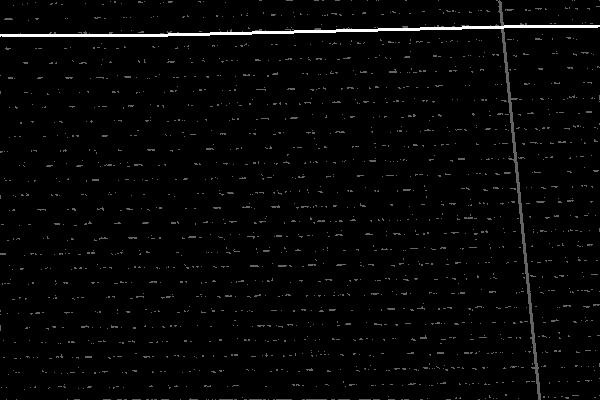
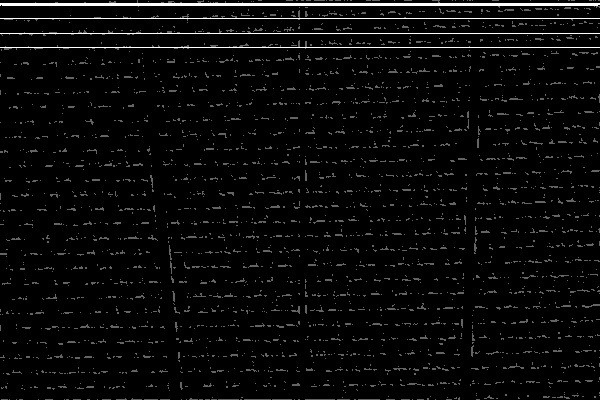
添加查找vertical 分割线方法

diff --git a/CrossShow/include/CalcObj.h b/CrossShow/include/CalcObj.h
@@ -30,7 +30,7 @@ public:
 	float PurifyTheData(float  Purfactor);
 	float getLinedistanceSdvPercentToMean(int continuesLineCount,const std::list<LINEIFO>:: iterator  it_start,CvScalar &mean
 																		,CvScalar &sdv,std::list<int> &rlt_list);
-	int getLinePitch(int continuesCount,float continuesTol,std::list<int> &rlt_list);
+	int getLinePitch(int continuesCount,float &continuesTol,std::list<int> &rlt_list);
 	std::list<LINEIFO> m_list;
 private:
 
